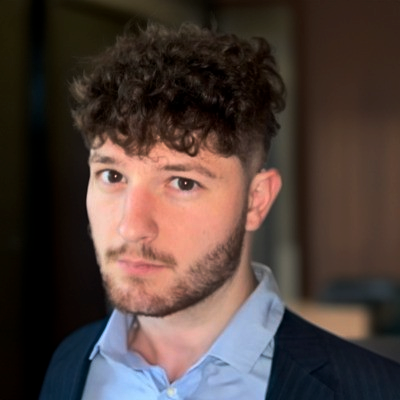
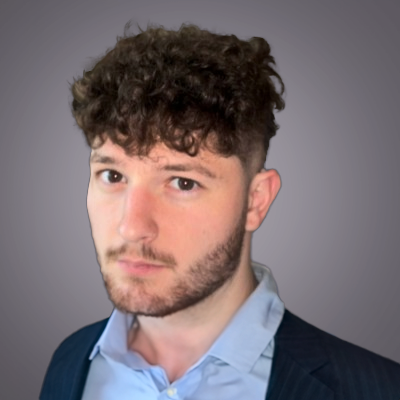
project and skills added cards

diff --git a/src/components/Cards/Cards.tsx b/src/components/Cards/Cards.tsx
@@ -1,0 +1,25 @@
+import React from "react";
+
+type CardsProps = {
+  str: string;
+  desc: string;
+  title: string;
+};
+
+export default function Cards({ str, desc, title }: CardsProps): JSX.Element {
+  return (
+    <div className="relative w-64 h-64 px-2">
+      <img
+        className="w-full h-full object-cover"
+        src={str} // Make sure the image path is correct
+        alt="Cat" // Provide a meaningful alt text for accessibility
+      />
+      <div className="absolute top-0 left-0 w-full h-full bg-black opacity-0 hover:opacity-75">
+        <hgroup className="flex justify-center items-center h-full text-white flex-col">
+          <h1>{title}</h1>
+          <h2>{desc}</h2>
+        </hgroup>
+      </div>
+    </div>
+  );
+}

diff --git a/src/pages/projectsSkills.tsx b/src/pages/projectsSkills.tsx
@@ -1,0 +1,17 @@
+import React from 'react';
+import Cards from '../components/Cards/Cards'
+
+
+
+export default function ProjectsSkills() {
+    return (
+        <div className={''}>
+            <h1 className='flex justify-center'>My Project's</h1>
+            <div className='flex flex-row justify-center py-6'>
+                <Cards str={"/OneImprint.jpg"} title={"OneImprint"} desc={"Full-Stack Development"} />
+                <Cards str={"/headshot.png"} title={"OneImprint"} desc={"Full-Stack Development"} />
+            </div>
+        </div>
+        );
+}
+

diff --git a/src/components/Navbar.tsx b/src/components/Navbar.tsx
@@ -22,7 +22,7 @@ const Navbar = () => {
             <Link href="/about">About</Link>
           </li>
           <li>
-            <Link href="/Projects&Skills">Project & Skills</Link>
+            <Link href="/projectsSkills">Project & Skills</Link>
           </li>
           <li>
             <Link href="/contact">Contact</Link>

diff --git a/src/styles/globals.css b/src/styles/globals.css
@@ -10,7 +10,7 @@
 
 @media (prefers-color-scheme: dark) {
   :root {
-    --foreground-rgb: 250, 250, 250;
+    --foreground-rgb: 240, 240, 240;
     --background-start-rgb: 0, 0, 0;
     --background-end-rgb: 0, 0, 0;
   }

diff --git a/src/pages/_app.tsx b/src/pages/_app.tsx
@@ -6,7 +6,7 @@ export default function App({ Component, pageProps }: AppProps) {
   return (
     <div>
       <Navbar/>
-      <Component {...pageProps} />
+      <Component {...pageProps}/>
     </div>
 
   );

diff --git a/src/pages/contact.tsx b/src/pages/contact.tsx
@@ -2,6 +2,6 @@ import React from 'react';
 
 export default function Contact() {
     return (
-        <h1>This is the About page!</h1>
+        <h1>This is the Contact page!</h1>
         );
 }
